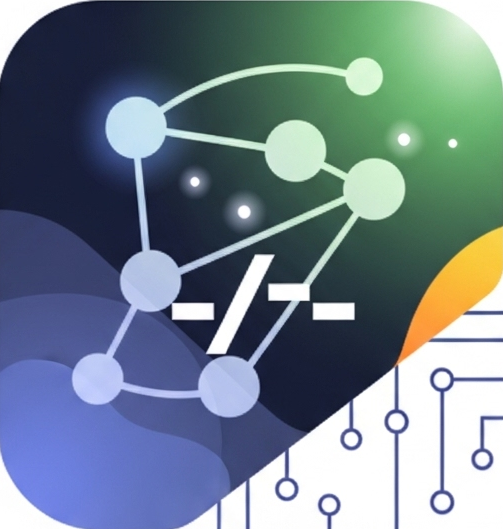
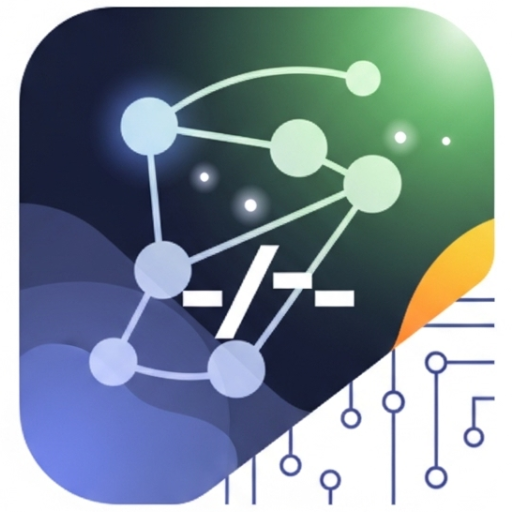
画像サイズを1:1に修正し、画像サイズを多数追加。metaデータに利用していた画像サイズがでかかった問題を修正。

diff --git a/index.html b/index.html
@@ -14,7 +14,7 @@
 <meta property="og:title" content="📚 CheckMate V2">
 <meta property="og:description" content="日々の持ち物を管理し、忘れ物を防止するためのチェックリストPWAです。曜日ごとのアイテム登録やPWA対応で、あなたの「うっかり」をなくします。">
 <!-- TODO: Replace with the final, absolute URL to your icon image -->
-<meta property="og:image" content="https://vol-11.github.io/CheckMate-V2/icons/icon-512.png">
+<meta property="og:image" content="https://vol-11.github.io/CheckMate-V2/icons/icon-48.png">
 <!-- Twitter -->
 <meta property="twitter:card" content="summary_large_image">
 <!-- TODO: Replace with the final, absolute URL of your deployed app -->
@@ -22,7 +22,7 @@
 <meta property="twitter:title" content="📚 CheckMate V2">
 <meta property="twitter:description" content="日々の持ち物を管理し、忘れ物を防止するためのチェックリストPWAです。曜日ごとのアイテム登録やPWA対応で、あなたの「うっかり」をなくします。">
 <!-- TODO: Replace with the final, absolute URL to your icon image -->
-<meta property="twitter:image" content="https://vol-11.github.io/CheckMate-V2/icons/icon-512.png">
+<meta property="twitter:image" content="https://vol-11.github.io/CheckMate-V2/icons/icon-48.png">
 
 <meta name="theme-color" content="#007bff">
 <script src="https://cdn.tailwindcss.com"></script>
@@ -31,8 +31,8 @@
 <link rel="manifest" href="manifest.webmanifest">
 <meta name="apple-mobile-web-app-capable" content="yes">
 <meta name="apple-mobile-web-app-status-bar-style" content="black-translucent">
-<link rel="apple-touch-icon" href="icons/icon-512.png">
-<link rel="icon" type="image/png" sizes="32x32" href="icons/icon-512.png">
+<link rel="apple-touch-icon" href="icons/icon-48.png">
+<link rel="icon" type="image/png" sizes="32x32" href="icons/icon-48.png">
 <script>
   if ('serviceWorker' in navigator) {
     navigator.serviceWorker.register('./sw.js');
